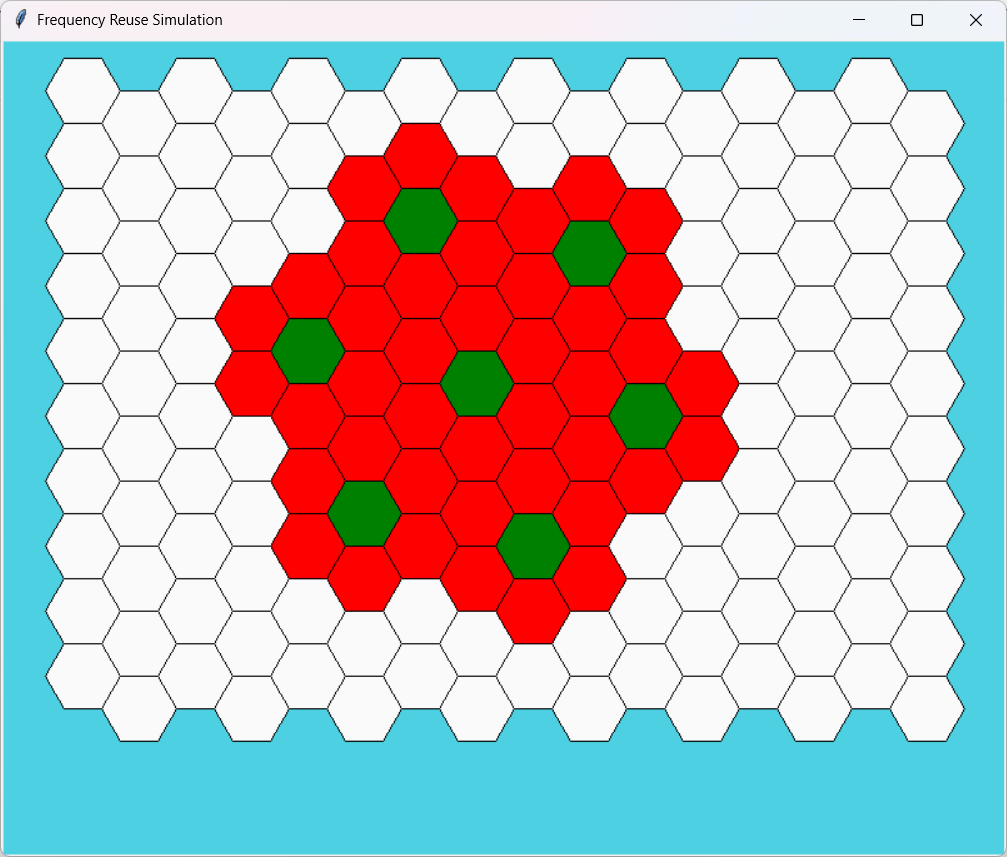
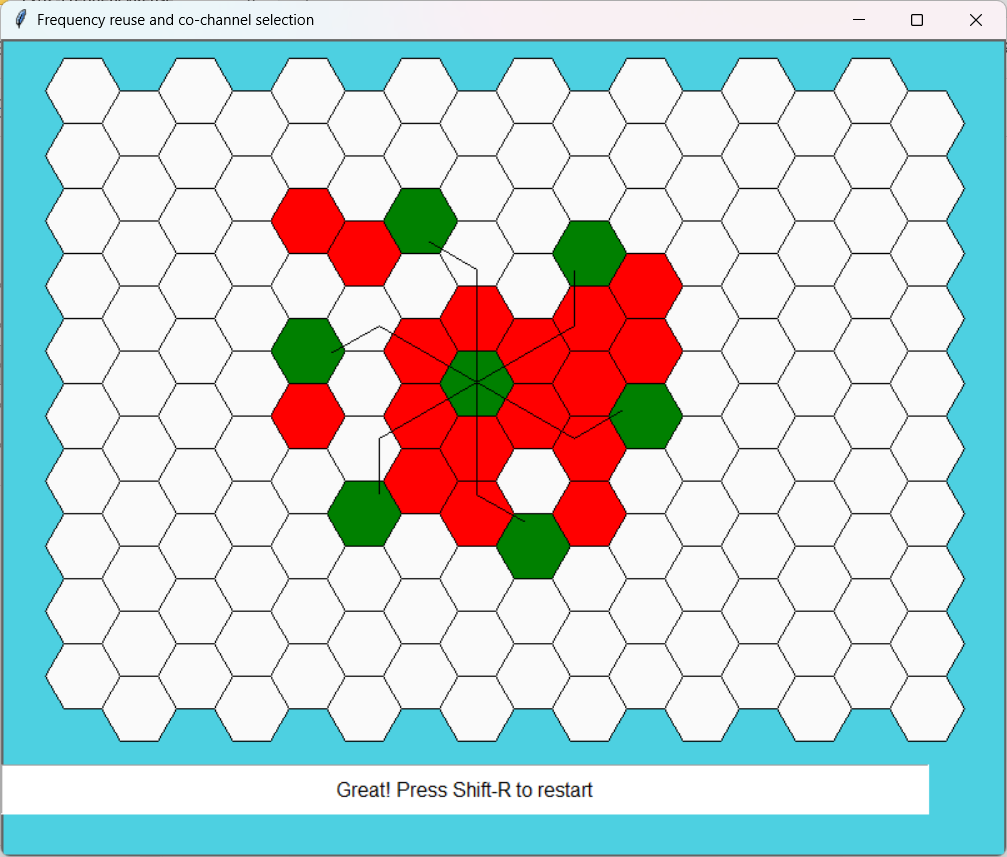
changes

diff --git a/Exp2-FrequencyReuse/frequency_reuse.py b/Exp2-FrequencyReuse/frequency_reuse.py
@@ -1,140 +1,267 @@
 #!/usr/bin/python
 
 from math import *
+
+# import everything from Tkinter module
 from tkinter import *
 
 # Base class for Hexagon shape
-class Hexagon:
-    def __init__(self, parent, x, y, length, color, tags):
-        self.parent = parent
-        self.x = x
-        self.y = y
-        self.length = length
-        self.color = color
-        self.tags = tags
-        self.draw_hex()
+class Hexagon(object):
+	def __init__(self, parent, x, y, length, color, tags):
+		self.parent = parent
+		self.x = x
+		self.y = y
+		self.length = length
+		self.color = color
+		self.size = None
+		self.tags = tags
+		self.draw_hex()
 
-    def draw_hex(self):
-        start_x = self.x
-        start_y = self.y
-        angle = 60
-        coords = []
+	# draw one hexagon
+	def draw_hex(self):
+		start_x = self.x
+		start_y = self.y
+		angle = 60
+		coords = []
+		for i in range(6):
+			end_x = start_x + self.length * cos(radians(angle * i))
+			end_y = start_y + self.length * sin(radians(angle * i))
+			coords.append([start_x, start_y])
+			start_x = end_x
+			start_y = end_y
+		self.parent.create_polygon(coords[0][0],
+								coords[0][1],
+								coords[1][0],
+								coords[1][1],
+								coords[2][0],
+								coords[2][1],
+								coords[3][0],
+								coords[3][1],
+								coords[4][0],
+								coords[4][1],
+								coords[5][0],
+								coords[5][1],
+								fill=self.color,
+								outline="black",
+								tags=self.tags)
 
-        for k in range(6):
-            end_x = start_x + self.length * cos(radians(angle * k))
-            end_y = start_y + self.length * sin(radians(angle * k))
-            coords.append([start_x, start_y])
-            start_x = end_x
-            start_y = end_y
-
-        self.parent.create_polygon(
-            coords[0][0], coords[0][1],
-            coords[1][0], coords[1][1],
-            coords[2][0], coords[2][1],
-            coords[3][0], coords[3][1],
-            coords[4][0], coords[4][1],
-            coords[5][0], coords[5][1],
-            fill=self.color,
-            outline="black",
-            tags=self.tags
-        )
-
-
+# class holds frequency reuse logic and related methods
 class FrequencyReuse(Tk):
+	CANVAS_WIDTH = 800
+	CANVAS_HEIGHT = 650
+	TOP_LEFT = (20, 20)
+	BOTTOM_LEFT = (790, 560)
+	TOP_RIGHT = (780, 20)
+	BOTTOM_RIGHT = (780, 560)
 
-    CANVAS_WIDTH = 800
-    CANVAS_HEIGHT = 650
+	def __init__(self, cluster_size, columns=16, rows=10, edge_len=30):
+		Tk.__init__(self)
+		self.textbox = None
+		self.curr_angle = 330
+		self.first_click = True
+		self.reset = False
+		self.edge_len = edge_len
+		self.cluster_size = cluster_size
+		self.reuse_list = []
+		self.all_selected = False
+		self.curr_count = 0
+		self.hexagons = []
+		self.co_cell_endp = []
+		self.reuse_xy = []
+		self.canvas = Canvas(self,
+							width=self.CANVAS_WIDTH,
+							height=self.CANVAS_HEIGHT,
+							bg="#4dd0e1")
+		self.canvas.bind("<Button-1>", self.call_back)
+		self.canvas.focus_set()
+		self.canvas.bind('<Shift-R>', self.resets)
+		self.canvas.pack()
+		self.title("Frequency reuse and co-channel selection")
+		self.create_grid(16, 10)
+		self.create_textbox()
+		self.cluster_reuse_calc()
 
-    def __init__(self, cluster_size, i_val, j_val, edge_len=30):
-        super().__init__()
+	# show lines joining all co-channel cells
+	def show_lines(self):
+		# center(x,y) of first hexagon
+		approx_center = self.co_cell_endp[0]
+		self.line_ids = []
+		for k in range(1, len(self.co_cell_endp)):
 
-        self.cluster_size = cluster_size
-        self.i_val = i_val
-        self.j_val = j_val
-        self.edge_len = edge_len
+			end_xx = (self.co_cell_endp[k])[0]
+			end_yy = (self.co_cell_endp[k])[1]
 
-        self.hexagons = []
-        self.reuse_cells = []
-        self.first_click = True
+			# move i^th steps
+			l_id = self.canvas.create_line(approx_center[0], approx_center[1],
+										end_xx, end_yy)
+			if j == 0:
+				self.line_ids.append(l_id)
+				dist = 0
+			elif i >= j and j != 0:
+				self.line_ids.append(l_id)
+				dist = j
+				# rotate counter-clockwise and move j^th step
+				l_id = self.canvas.create_line(
+					end_xx, end_yy, end_xx + self.center_dist * dist *
+					cos(radians(self.curr_angle - 60)),
+					end_yy + self.center_dist * dist *
+					sin(radians(self.curr_angle - 60)))
+				self.line_ids.append(l_id)
+			self.curr_angle -= 60
 
-        self.canvas = Canvas(self,
-                             width=self.CANVAS_WIDTH,
-                             height=self.CANVAS_HEIGHT,
-                             bg="#4dd0e1")
-        self.canvas.pack()
-        self.canvas.bind("<Button-1>", self.call_back)
+	def create_textbox(self):
+		txt = Text(self.canvas,
+				width=80,
+				height=1,
+				font=("Helvatica", 12),
+				padx=10,
+				pady=10)
+		txt.tag_configure("center", justify="center")
+		txt.insert("1.0", "Select a Hexagon")
+		txt.tag_add("center", "1.0", "end")
+		self.canvas.create_window((0, 600), anchor='w', window=txt)
+		txt.config(state=DISABLED)
+		self.textbox = txt
 
-        self.title("Frequency Reuse Simulation")
+	def resets(self, event):
+		if event.char == 'R':
+			self.reset_grid()
 
-        self.create_grid(16, 10)
-        self.calculate_distances()
+	# clear hexagonal grid for new i/p
+	def reset_grid(self, button_reset=False):
+		self.first_click = True
+		self.curr_angle = 330
+		self.curr_count = 0
+		self.co_cell_endp = []
+		self.reuse_list = []
+		for i in self.hexagons:
+			self.canvas.itemconfigure(i.tags, fill=i.color)
 
-    def create_grid(self, cols, rows):
-        size = self.edge_len
+		try:
+			self.line_ids
+		except AttributeError:
+			pass
+		else:
+			for i in self.line_ids:
+				self.canvas.after(0, self.canvas.delete, i)
+			self.line_ids = []
 
-        for c in range(cols):
-            offset = 0 if c % 2 == 0 else size * sqrt(3) / 2
+		if button_reset:
+			self.write_text("Select a Hexagon")
 
-            for r in range(rows):
-                x = c * (size * 1.5) + 50
-                y = (r * (size * sqrt(3))) + offset + 15
-                hx = Hexagon(self.canvas, x, y, size, "#fafafa", f"{r},{c}")
-                self.hexagons.append(hx)
+	# create a grid of Hexagons
+	def create_grid(self, cols, rows):
+		size = self.edge_len
+		for c in range(cols):
+			if c % 2 == 0:
+				offset = 0
+			else:
+				offset = size * sqrt(3) / 2
+			for r in range(rows):
+				x = c * (self.edge_len * 1.5) + 50
+				y = (r * (self.edge_len * sqrt(3))) + offset + 15
+				hx = Hexagon(self.canvas, x, y, self.edge_len, "#fafafa",
+							"{},{}".format(r, c))
+				self.hexagons.append(hx)
 
-    def calculate_distances(self):
-        self.hex_radius = sqrt(3) / 2 * self.edge_len
-        self.center_dist = sqrt(3) * self.hex_radius
+	# calculate reuse distance, center distance and radius of the hexagon
+	def cluster_reuse_calc(self):
+		self.hex_radius = sqrt(3) / 2 * self.edge_len
+		self.center_dist = sqrt(3) * self.hex_radius
+		self.reuse_dist = self.hex_radius * sqrt(3 * self.cluster_size)
 
-    def call_back(self, event):
-        selected_id = self.canvas.find_closest(event.x, event.y)[0]
-        hexagon = self.hexagons[selected_id - 1]
+	def write_text(self, text):
+		self.textbox.config(state=NORMAL)
+		self.textbox.delete('1.0', END)
+		self.textbox.insert('1.0', text, "center")
+		self.textbox.config(state=DISABLED)
 
-        if self.first_click:
-            self.first_click = False
-            self.selected_hex = hexagon
-            self.canvas.itemconfigure(hexagon.tags, fill="green")
-            self.calculate_reuse_cells(hexagon)
+	#check if the co-channels are within visible canvas
+	def is_within_bound(self, coords):
+		if self.TOP_LEFT[0] < coords[0] < self.BOTTOM_RIGHT[0] \
+		and self.TOP_RIGHT[1] < coords[1] < self.BOTTOM_RIGHT[1]:
+			return True
+		return False
 
-        else:
-            if selected_id in self.reuse_cells:
-                self.canvas.itemconfigure(hexagon.tags, fill="green")
-                print("Correct Co-Channel Cell")
-            else:
-                self.canvas.itemconfigure(hexagon.tags, fill="red")
-                print("Not a Co-Channel Cell")
+	#gets called when user selects a hexagon
+	#This function applies frequency reuse logic in order to
+	#figure out the positions of the co-channels
+	def call_back(self, evt):
 
-    def calculate_reuse_cells(self, hexagon):
-        sx, sy = hexagon.x + 15, hexagon.y + 25
-        angle = 330
+		selected_hex_id = self.canvas.find_closest(evt.x, evt.y)[0]
+		hexagon = self.hexagons[int(selected_hex_id - 1)]
+		s_x, s_y = hexagon.x, hexagon.y
+		approx_center = (s_x + 15, s_y + 25)
 
-        for _ in range(6):
-            end_x = sx + self.center_dist * self.i_val * cos(radians(angle))
-            end_y = sy + self.center_dist * self.i_val * sin(radians(angle))
+		if self.first_click:
+			self.first_click = False
+			self.write_text(
+				"""Now, select another hexagon such
+				that it should be a co-cell of
+				the original hexagon."""
+			)
+			self.co_cell_endp.append(approx_center)
+			self.canvas.itemconfigure(hexagon.tags, fill="green")
 
-            reuse_x = end_x + self.center_dist * self.j_val * cos(radians(angle - 60))
-            reuse_y = end_y + self.center_dist * self.j_val * sin(radians(angle - 60))
+			for _ in range(6):
 
-            cell = self.canvas.find_closest(reuse_x, reuse_y)[0]
-            self.reuse_cells.append(cell)
+				end_xx = approx_center[0] + self.center_dist * i * cos(
+					radians(self.curr_angle))
+				end_yy = approx_center[1] + self.center_dist * i * sin(
+					radians(self.curr_angle))
 
-            angle -= 60
+				reuse_x = end_xx + (self.center_dist * j) * cos(
+					radians(self.curr_angle - 60))
+				reuse_y = end_yy + (self.center_dist * j) * sin(
+					radians(self.curr_angle - 60))
 
+				if not self.is_within_bound((reuse_x, reuse_y)):
+					self.write_text(
+						"""co-cells are exceeding canvas boundary.
+						Select cell in the center"""
+					)
+					self.reset_grid()
+					break
 
-if __name__ == "__main__":
+				if j == 0:
+					self.reuse_list.append(
+						self.canvas.find_closest(end_xx, end_yy)[0])
+				elif i >= j and j != 0:
+					self.reuse_list.append(
+						self.canvas.find_closest(reuse_x, reuse_y)[0])
 
-    print("Common (i, j) values: (1,0), (1,1), (2,0), (2,1), (3,0), (2,2)")
+				self.co_cell_endp.append((end_xx, end_yy))
+				self.curr_angle -= 60
 
-    i = int(input("Enter i: "))
-    j = int(input("Enter j: "))
+		else:
+			curr = self.canvas.find_closest(s_x, s_y)[0]
+			if curr in self.reuse_list:
+				self.canvas.itemconfigure(hexagon.tags, fill="green")
+				self.write_text("Correct! Cell {} is a co-cell.".format(
+					hexagon.tags))
+				if self.curr_count == len(self.reuse_list) - 1:
+					self.write_text("Great! Press Shift-R to restart")
+					self.show_lines()
+				self.curr_count += 1
 
-    if i == 0 and j == 0:
-        raise ValueError("i & j cannot both be zero")
+			else:
+				self.write_text("Incorrect! Cell {} is not a co-cell.".format(
+					hexagon.tags))
+				self.canvas.itemconfigure(hexagon.tags, fill="red")
 
-    if j > i:
-        raise ValueError("j cannot be greater than i")
-
-    N = i*i + i*j + j*j
-    print("Cluster size N =", N)
-
-    app = FrequencyReuse(cluster_size=N, i_val=i, j_val=j)
-    app.mainloop()
+if __name__ == '__main__':
+	print(
+		"""Enter i & j values. common (i,j) values are:
+		(1,0), (1,1), (2,0), (2,1), (3,0), (2,2)"""
+	)
+	i = int(input("Enter i: "))
+	j = int(input("Enter j: "))
+	if i == 0 and j == 0:
+		raise ValueError("i & j both cannot be zero")
+	elif j > i:
+		raise ValueError("value of j cannot be greater than i")
+	else:
+		N = (i**2 + i * j + j**2)
+		print("N is {}".format(N))
+	freqreuse = FrequencyReuse(cluster_size=N)
+	freqreuse.mainloop()
